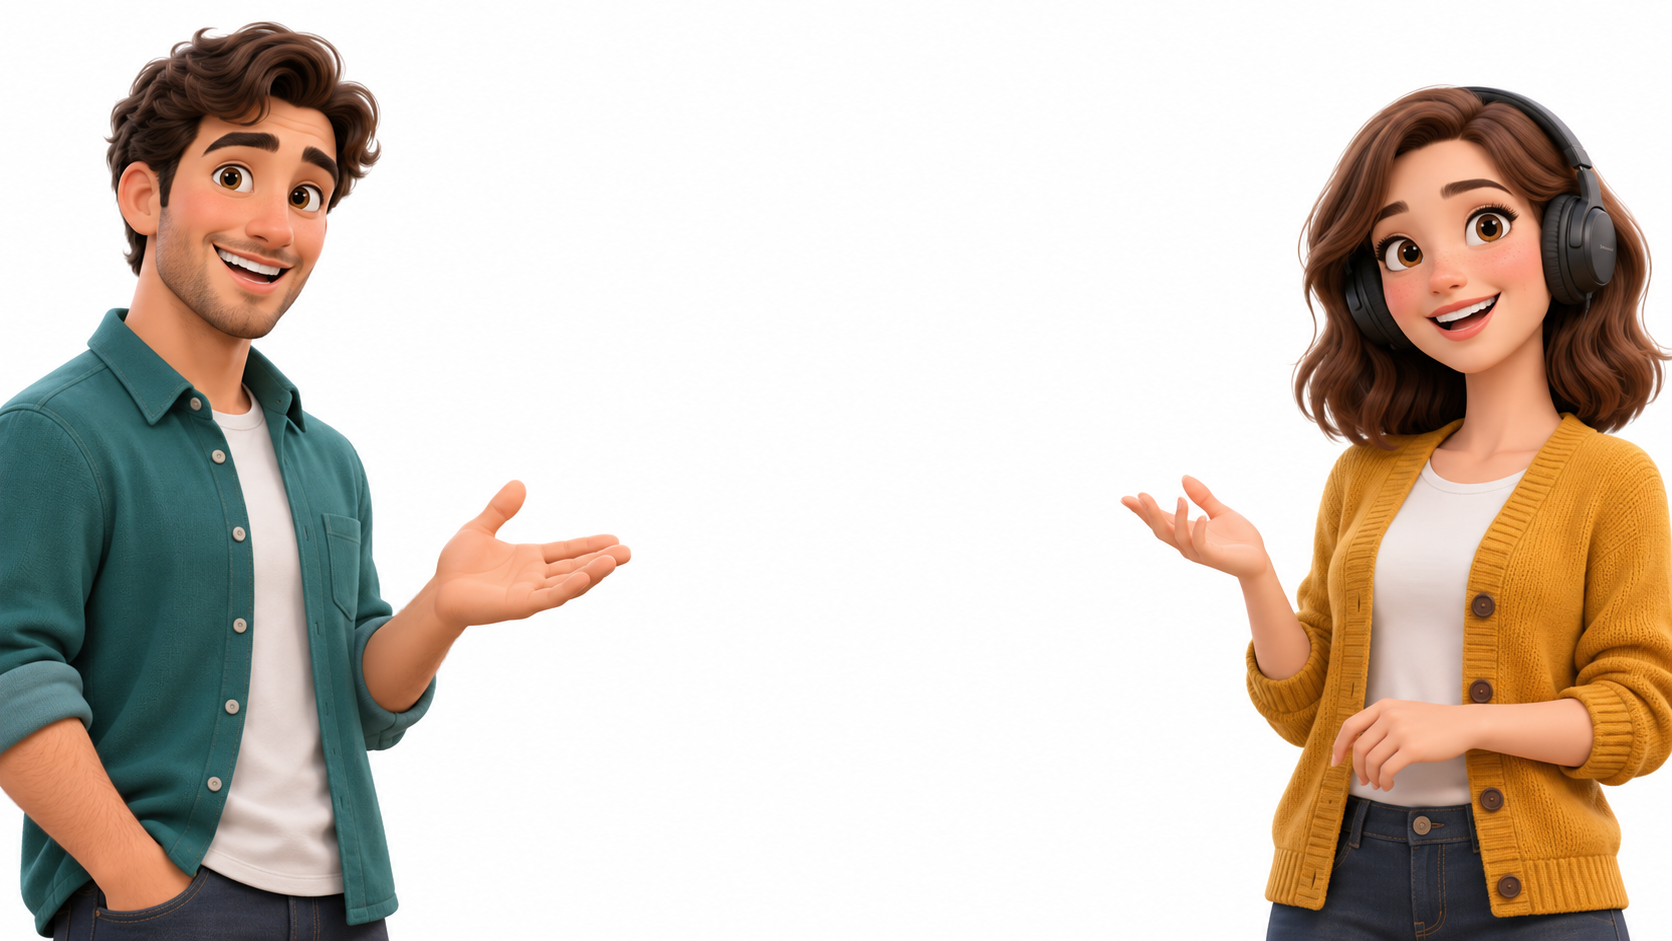
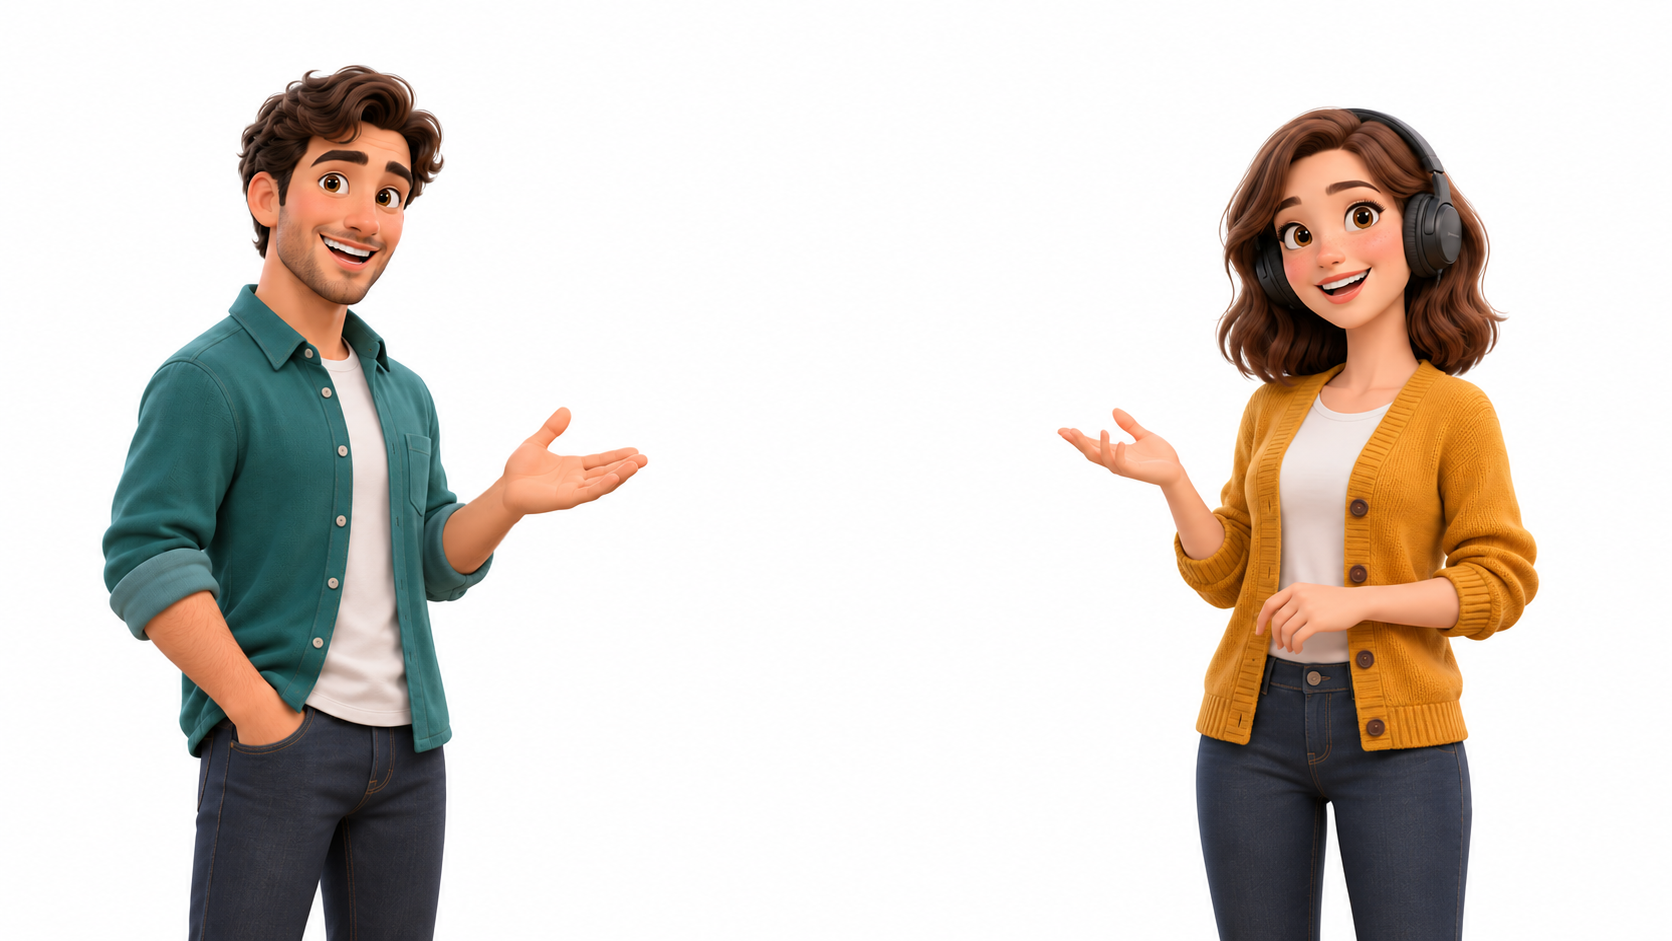
Keep complete character arms inside motion-safe video margins

diff --git a/fluency_render.py b/fluency_render.py
@@ -41,11 +41,13 @@ def fit_text(draw, text, width, max_lines=2, start=36, minimum=23):
     raise ValueError('Subtitle exceeds safe region; split this turn')
 
 
+# Outer limbs and every mouth keyframe have white padding in the artwork.
+# Independent placement leaves additional clearance for the full motion envelope.
+PUPPET_POSITIONS = ((52, 166), (695, 166))
+
+
 def background():
-    im = Image.new('RGB', (1280, 720), 'white')
-    art = Image.open(ASSETS / 'conversation-characters.png').convert('RGB')
-    im.paste(art.resize((1066, 600), Image.Resampling.LANCZOS), (107, 120))
-    return im
+    return CharacterAnimator().frame(0.)
 
 
 def center(draw, text, y, face, color=INK):
@@ -69,7 +71,7 @@ def lesson_frame(bg, lesson, turn, fraction, practice=False):
         center(d, row, 309 + index * 49, face)
     if practice or turn['section'] == 'REPEAT':
         center(d, 'Say it out loud' if practice else 'Listen, then repeat', 430, font(18), MUTED)
-    for name, x in [('Alex', 170), ('Emma', 1110)]:
+    for name, x in [('Alex', 280), ('Emma', 1010)]:
         active = name == turn['speaker'] and not practice
         d.rounded_rectangle((x-60, 646, x+60, 682), radius=18, fill=TEAL if active else '#EEF2F2')
         d.text((x, 653), name, font=font(17), fill='white' if active else MUTED, anchor='mt')
@@ -142,7 +144,7 @@ class CharacterAnimator:
         speaking = Image.open(ASSETS / 'conversation-speaking-mouths.png').convert('RGB').resize((1066,600),Image.Resampling.LANCZOS)
         middle = [speaking.crop((0,0,533,600)),speaking.crop((533,0,1066,600))]
         # Mouth boxes are calibrated to the approved artwork, in puppet pixels.
-        geometry = [(124,143,219,201), (344,171,438,229)]
+        geometry = [(185,137,250,185), (291,157,355,205)]
         self.poses = [[mouth_pose(puppet,pose,box) for pose in (rest,half,puppet)]
                       for puppet,rest,half,box in zip(puppets,closed,middle,geometry)]
 
@@ -157,5 +159,6 @@ class CharacterAnimator:
             angle = .6 * math.sin(phase * .65) + amplitude * .9 * math.sin(seconds * 7)
             bob = 2. * math.sin(phase) + amplitude * 3.2 * math.sin(seconds * 8)
             layer = puppet.rotate(angle, Image.Resampling.BICUBIC, center=(266, 585), fillcolor='white')
-            im.paste(layer.convert('RGB'), (107 + i * 533, 120 + round(bob)))
+            x, y = PUPPET_POSITIONS[i]
+            im.paste(layer.convert('RGB'), (x, y + round(bob)))
         return im

diff --git a/test_fluency.py b/test_fluency.py
@@ -78,6 +78,20 @@ class FluencyTests(unittest.TestCase):
         self.assertIsNotNone(ImageChops.difference(rest.crop((220,263,330,332)),talking.crop((220,263,330,332))).getbbox())
         self.assertIsNone(ImageChops.difference(rest.crop((640,120,1280,720)),talking.crop((640,120,1280,720))).getbbox())
 
+
+    def test_arms_stay_inside_safe_frame_and_clear_of_subtitle_mask(self):
+        animator=CharacterAnimator()
+        white=Image.new('RGB',(1280,720),'white')
+        for speaker in ('Alex','Emma'):
+            for index in range(36):
+                frame=animator.frame(index/6,speaker,1.)
+                foreground=ImageChops.difference(frame,white).convert('L').point(lambda value:255 if value>40 else 0)
+                bounds=foreground.getbbox()
+                self.assertGreaterEqual(bounds[0],90)
+                self.assertLessEqual(bounds[2],1190)
+                self.assertIsNone(foreground.crop((366,180,914,410)).getbbox(),
+                                  f'Character covered by subtitle mask: {speaker}, frame {index}')
+
     def test_every_sample_caption_fits_safe_region(self):
         bg=background()
         for turn in self.lesson['turns']:

diff --git a/assets/fluency/README.md b/assets/fluency/README.md
@@ -2,7 +2,7 @@
 
 Original artwork generated with the built-in image_gen tool in this project conversation. No model or image API is called during daily rendering.
 
-- `conversation-characters.png`: original male/female 3D storybook art. Prompt: pure white background, friendly adult male in teal overshirt far left, friendly adult female in mustard cardigan and dark headphones far right, inward-facing gestures, blank central half for subtitles, complete hands, no text/logos.
+- `conversation-characters.png`: original male/female 3D storybook art. Prompt: pure white background, friendly adult male in teal overshirt far left, friendly adult female in mustard cardigan and dark headphones far right, inward-facing gestures, blank central half for subtitles, complete hands, no text/logos. The corrected video artwork zooms both characters out to head-to-thigh framing, with complete outer shoulders, elbows and forearms plus white side margins. All three mouth keyframes share this safe composition.
 - `conversation-closed-mouths.png` and `conversation-speaking-mouths.png`: image_gen edits of the original artwork, changing only mouths to closed and slightly parted poses. Exact character identity, head/face positions, clothing, hands and background were preserved for alignment. Python composites only feathered mouth regions; animation uses three discrete real poses without a blurry dissolve. No image API is called during rendering.
 - `approved-thumbnail.png`: approved reference with angled black condensed display lettering, white outlines, hard black shadow and yellow background. Reference only, never uploaded as a shared daily thumbnail.
 - `emma-thumbnail.png`: reusable transparent cutout. Prompt: preserve the approved adult female identity, chestnut hair, dark headphones, mustard cardigan, white top, jeans; one hand waving near shoulder and the other resting in front of waist, both complete arms and all fingers inside frame; no text or background; clean transparent alpha. Isolated artwork prevents the cropped hand defect.

diff --git a/README.md b/README.md
@@ -5,6 +5,7 @@ Creates original A2 English lessons with Alex (male) and Emma (female): a white 
 ## Video and thumbnail format
 
 - 1280×720 video at 12 fps by default (24 fps is supported locally).
+- Video characters include complete outer arms and elbows, white side margins and motion-safe placement. A regression check sweeps both speakers through extreme poses and rejects overlap with the subtitle mask.
 - Python/Pillow character breathing, torso sway, speech-energy-driven nods and three mouth poses (closed, slightly open, open). Characters move independently; subtitles stay fixed. This is 2D puppet animation of 3D-style artwork, approximate audio-reactive mouth animation rather than phoneme-accurate lip-sync or a rigged 3D model.
 - Kokoro CPU voices: Alex `am_michael`, Emma `af_heart`, speed `0.9`, neutral pitch. No horror pitch filter, atmosphere or background music.
 - Daily lessons contain three original conversations, sentence repetition with speaking pauses and role play. Measured audio must be 8–20 minutes; generation stops outside that range rather than padding the lesson. The checked-in short sample uses a separate 60–90 second duration gate.
